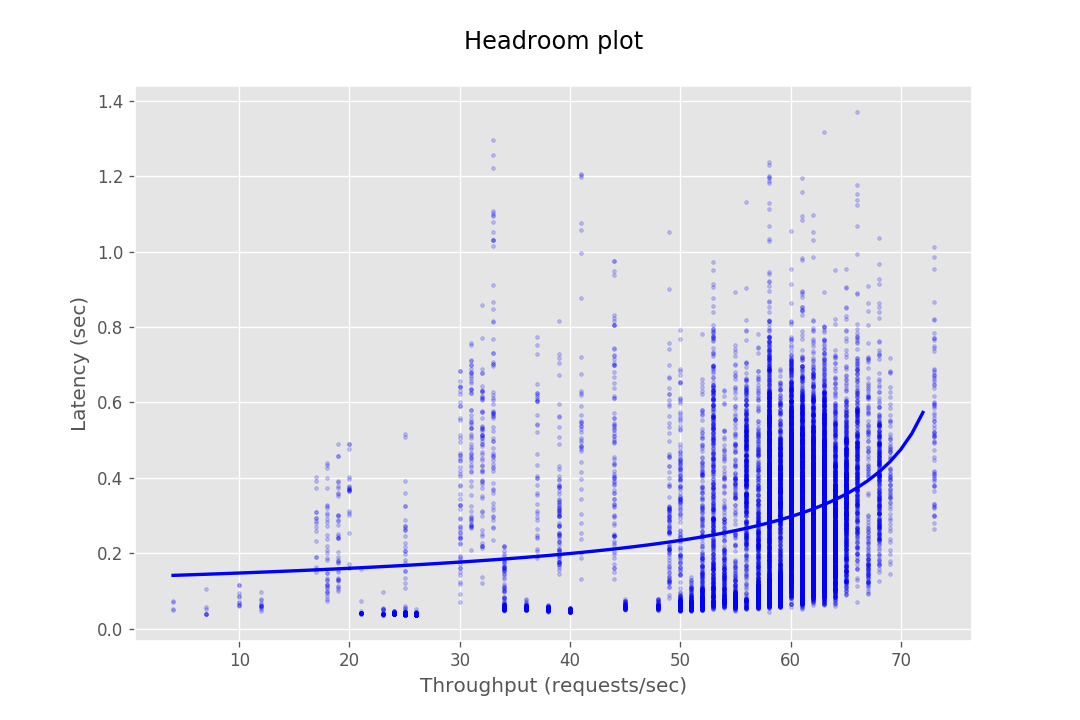
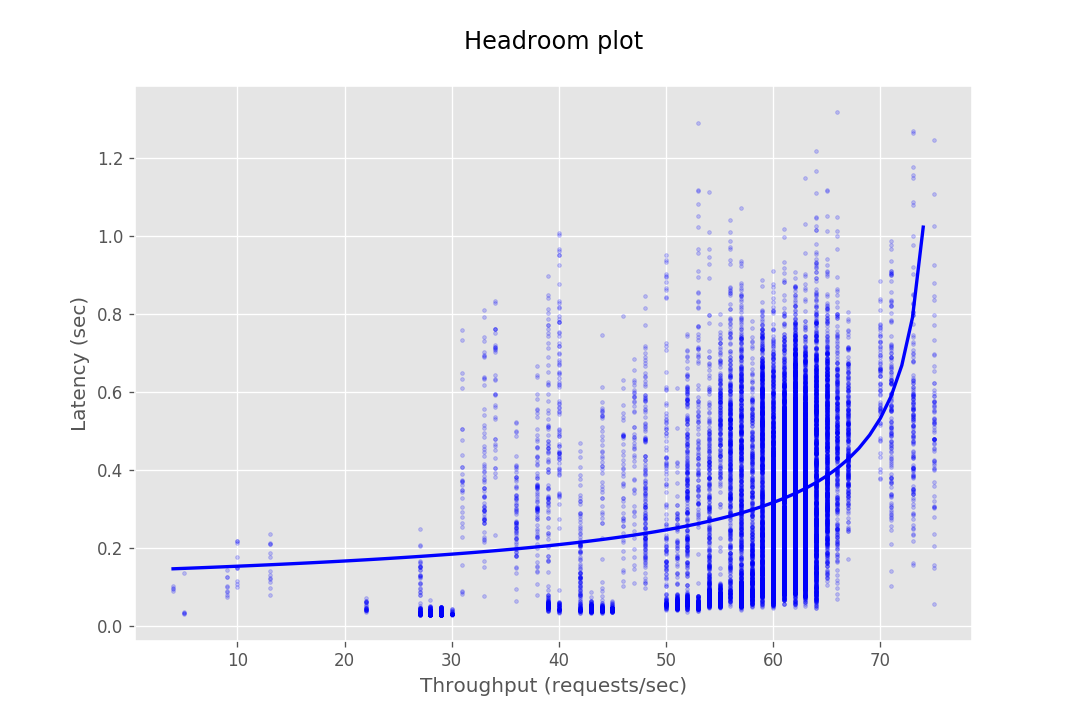
Fix results for SET with 1 instance
[#150822263] Rerun the SET @ 1 instance with unique names configuration

diff --git a/docs/performance-testing.md b/docs/performance-testing.md
@@ -80,7 +80,7 @@ A single credential is set or retrieved in the get and set request tests. The in
 |             | 2  | 500 | 1 | 1 | 60 | 30000
 |             | 4  | 500 | 1 | 1 | 60 | 30000
 |             | 10 | 500 | 1 | 1 | 120 | 60000
-| Set         | 1  | 500 | 1 | 1 | 35 | 17500
+| Set         | 1  | 500 | 1 | 1 | 40 | 20000
 |             | 2  | 500 | 1 | 1 | TBD | TBD
 |             | 4  | 500 | 1 | 1 | TBD | TBD
 |             | 10 | 500 | 1 | 1 | TBD | TBD
